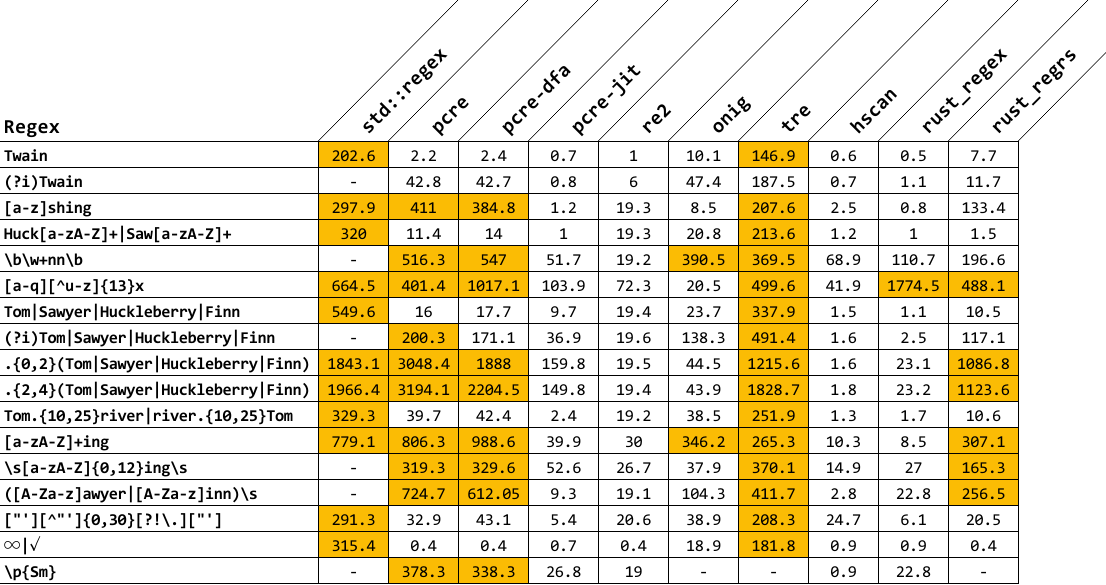
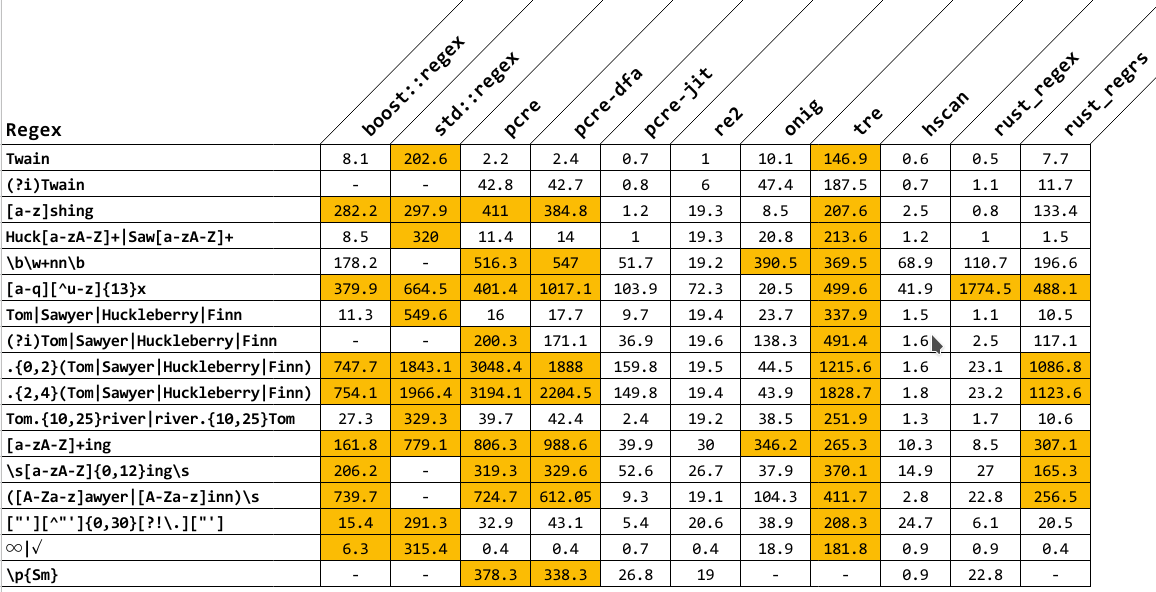
Added boost::regex

diff --git a/src/boost.cpp b/src/boost.cpp
@@ -2,23 +2,23 @@
 #include <string.h>
 
 #include "main.h"
-#include <regex>
+#include <boost/regex.hpp>
 
 
-static int search_all( std::regex& rx, const std::string& text )
+static int search_all( boost::regex& rx, const std::string& text )
 {
-    auto words_begin = std::sregex_iterator( text.begin(), text.end(), rx );
-    auto words_end = std::sregex_iterator();
+    auto words_begin = boost::sregex_iterator( text.begin(), text.end(), rx );
+    auto words_end = boost::sregex_iterator();
     return std::distance(words_begin, words_end);    
 }
 
-extern "C" int cppstd_find_all(char* pattern, char* subject, int subject_len, int repeat, struct result * res)
+extern "C" int boost_find_all(char* pattern, char* subject, int subject_len, int repeat, struct result * res)
 {
     TIME_TYPE start, end = 0;
     int found = 0;
 
     try {
-        std::regex rx(pattern);//,std::regex::optimize|std::regex::extended);
+        boost::regex rx(pattern,boost::regex::optimize|boost::regex::extended);
         std::string text( subject, subject_len );
 
         double * times = (double*) std::calloc(repeat, sizeof(double));

diff --git a/src/ctre.cpp b/src/ctre.cpp
@@ -2,23 +2,26 @@
 #include <string.h>
 
 #include "main.h"
-#include <regex>
 
 
 static int search_all( std::regex& rx, const std::string& text )
 {
-    auto words_begin = std::sregex_iterator( text.begin(), text.end(), rx );
+    auto words_begin = 
+        std::sregex_iterator( text.begin(), text.end(), rx );
     auto words_end = std::sregex_iterator();
-    return std::distance(words_begin, words_end);    
+    int found = std::distance(words_begin, words_end);
+    return found;
 }
 
-extern "C" int cppstd_find_all(char* pattern, char* subject, int subject_len, int repeat, struct result * res)
+
+
+extern "C" int ctre_find_all(char* pattern, char* subject, int subject_len, int repeat, struct result * res)
 {
     TIME_TYPE start, end = 0;
     int found = 0;
 
     try {
-        std::regex rx(pattern);//,std::regex::optimize|std::regex::extended);
+        std::regex rx(pattern,std::regex::optimize|std::regex::extended);
         std::string text( subject, subject_len );
 
         double * times = (double*) std::calloc(repeat, sizeof(double));

diff --git a/src/main.h b/src/main.h
@@ -22,6 +22,9 @@ struct result {
 void get_mean_and_derivation(double * times, uint32_t times_len, struct result * res);
 void printResult(char * name, struct result * res);
 
+#ifdef INCLUDE_BOOST
+int boost_find_all(char* pattern, char* subject, int subject_len, int repeat, struct result * res);
+#endif
 #ifdef INCLUDE_CPPSTD
 int cppstd_find_all(char* pattern, char* subject, int subject_len, int repeat, struct result * res);
 #endif

diff --git a/src/main.c b/src/main.c
@@ -15,6 +15,9 @@ struct engines {
 };
 
 static struct engines engines [] = {
+#ifdef INCLUDE_BOOST
+    {.name = "boost",        .find_all = boost_find_all},
+#endif
 #ifdef INCLUDE_CPPSTD
     {.name = "cppstd",        .find_all = cppstd_find_all},
 #endif
